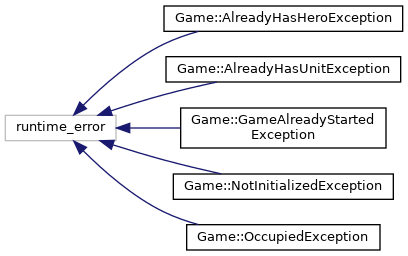
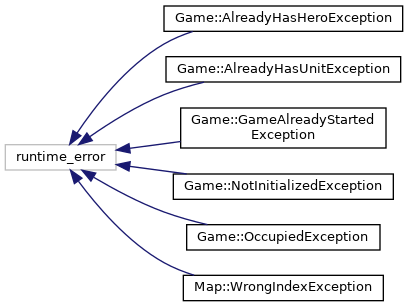
Update gh-pages to output generated at 4e7038c

Changed region(s): [[0.0, 0.0, 1.0, 1.0]]

diff --git a/hierarchy.html b/hierarchy.html
@@ -74,16 +74,16 @@ This inheritance list is sorted roughly, but not completely, alphabetically:</di
 <tr id="row_0_" class="even"><td class="entry"><span style="width:16px;display:inline-block;">&#160;</span><span class="icona"><span class="icon">C</span></span><a class="el" href="struct_damage.html" target="_self">Damage</a></td><td class="desc"><a class="el" href="struct_damage.html" title="Damage is a struct which contains int physical and int magical dmg.">Damage</a> is a struct which contains int physical and int magical dmg </td></tr>
 <tr id="row_1_"><td class="entry"><span style="width:0px;display:inline-block;">&#160;</span><span id="arr_1_" class="arrow" onclick="toggleFolder('1_')">&#9660;</span><span class="icona"><span class="icon">C</span></span><b>exception</b></td><td class="desc"></td></tr>
 <tr id="row_1_0_" class="even"><td class="entry"><span style="width:32px;display:inline-block;">&#160;</span><span class="icona"><span class="icon">C</span></span><a class="el" href="class_j_s_o_n_1_1_parse_exception.html" target="_self">JSON::ParseException</a></td><td class="desc">This is the exception thrown when the <a class="el" href="class_j_s_o_n.html" title="header for JSON class">JSON</a> parsing fails </td></tr>
-<tr id="row_1_1_"><td class="entry"><span style="width:32px;display:inline-block;">&#160;</span><span class="icona"><span class="icon">C</span></span><a class="el" href="class_map_1_1_wrong_index_exception.html" target="_self">Map::WrongIndexException</a></td><td class="desc">The exception thrown when the map is indexed outside of its bounds </td></tr>
-<tr id="row_2_" class="even"><td class="entry"><span style="width:16px;display:inline-block;">&#160;</span><span class="icona"><span class="icon">C</span></span><a class="el" href="class_game.html" target="_self">Game</a></td><td class="desc">Header for <a class="el" href="class_game.html" title="header for Game class">Game</a> class </td></tr>
-<tr id="row_3_"><td class="entry"><span style="width:16px;display:inline-block;">&#160;</span><span class="icona"><span class="icon">C</span></span><a class="el" href="class_j_s_o_n.html" target="_self">JSON</a></td><td class="desc">Header for <a class="el" href="class_j_s_o_n.html" title="header for JSON class">JSON</a> class </td></tr>
-<tr id="row_4_" class="even"><td class="entry"><span style="width:16px;display:inline-block;">&#160;</span><span class="icona"><span class="icon">C</span></span><a class="el" href="class_map.html" target="_self">Map</a></td><td class="desc">Header for <a class="el" href="class_map.html" title="header for Map class">Map</a> class </td></tr>
-<tr id="row_5_"><td class="entry"><span style="width:0px;display:inline-block;">&#160;</span><span id="arr_5_" class="arrow" onclick="toggleFolder('5_')">&#9660;</span><span class="icona"><span class="icon">C</span></span><b>runtime_error</b></td><td class="desc"></td></tr>
-<tr id="row_5_0_" class="even"><td class="entry"><span style="width:32px;display:inline-block;">&#160;</span><span class="icona"><span class="icon">C</span></span><a class="el" href="class_game_1_1_already_has_hero_exception.html" target="_self">Game::AlreadyHasHeroException</a></td><td class="desc"></td></tr>
-<tr id="row_5_1_"><td class="entry"><span style="width:32px;display:inline-block;">&#160;</span><span class="icona"><span class="icon">C</span></span><a class="el" href="class_game_1_1_already_has_unit_exception.html" target="_self">Game::AlreadyHasUnitException</a></td><td class="desc"></td></tr>
-<tr id="row_5_2_" class="even"><td class="entry"><span style="width:32px;display:inline-block;">&#160;</span><span class="icona"><span class="icon">C</span></span><a class="el" href="class_game_1_1_game_already_started_exception.html" target="_self">Game::GameAlreadyStartedException</a></td><td class="desc"></td></tr>
-<tr id="row_5_3_"><td class="entry"><span style="width:32px;display:inline-block;">&#160;</span><span class="icona"><span class="icon">C</span></span><a class="el" href="class_game_1_1_not_initialized_exception.html" target="_self">Game::NotInitializedException</a></td><td class="desc"></td></tr>
-<tr id="row_5_4_" class="even"><td class="entry"><span style="width:32px;display:inline-block;">&#160;</span><span class="icona"><span class="icon">C</span></span><a class="el" href="class_game_1_1_occupied_exception.html" target="_self">Game::OccupiedException</a></td><td class="desc"></td></tr>
+<tr id="row_2_"><td class="entry"><span style="width:16px;display:inline-block;">&#160;</span><span class="icona"><span class="icon">C</span></span><a class="el" href="class_game.html" target="_self">Game</a></td><td class="desc">Header for <a class="el" href="class_game.html" title="header for Game class">Game</a> class </td></tr>
+<tr id="row_3_" class="even"><td class="entry"><span style="width:16px;display:inline-block;">&#160;</span><span class="icona"><span class="icon">C</span></span><a class="el" href="class_j_s_o_n.html" target="_self">JSON</a></td><td class="desc">Header for <a class="el" href="class_j_s_o_n.html" title="header for JSON class">JSON</a> class </td></tr>
+<tr id="row_4_"><td class="entry"><span style="width:16px;display:inline-block;">&#160;</span><span class="icona"><span class="icon">C</span></span><a class="el" href="class_map.html" target="_self">Map</a></td><td class="desc">Header for <a class="el" href="class_map.html" title="header for Map class">Map</a> class </td></tr>
+<tr id="row_5_" class="even"><td class="entry"><span style="width:0px;display:inline-block;">&#160;</span><span id="arr_5_" class="arrow" onclick="toggleFolder('5_')">&#9660;</span><span class="icona"><span class="icon">C</span></span><b>runtime_error</b></td><td class="desc"></td></tr>
+<tr id="row_5_0_"><td class="entry"><span style="width:32px;display:inline-block;">&#160;</span><span class="icona"><span class="icon">C</span></span><a class="el" href="class_game_1_1_already_has_hero_exception.html" target="_self">Game::AlreadyHasHeroException</a></td><td class="desc"></td></tr>
+<tr id="row_5_1_" class="even"><td class="entry"><span style="width:32px;display:inline-block;">&#160;</span><span class="icona"><span class="icon">C</span></span><a class="el" href="class_game_1_1_already_has_unit_exception.html" target="_self">Game::AlreadyHasUnitException</a></td><td class="desc"></td></tr>
+<tr id="row_5_2_"><td class="entry"><span style="width:32px;display:inline-block;">&#160;</span><span class="icona"><span class="icon">C</span></span><a class="el" href="class_game_1_1_game_already_started_exception.html" target="_self">Game::GameAlreadyStartedException</a></td><td class="desc"></td></tr>
+<tr id="row_5_3_" class="even"><td class="entry"><span style="width:32px;display:inline-block;">&#160;</span><span class="icona"><span class="icon">C</span></span><a class="el" href="class_game_1_1_not_initialized_exception.html" target="_self">Game::NotInitializedException</a></td><td class="desc"></td></tr>
+<tr id="row_5_4_"><td class="entry"><span style="width:32px;display:inline-block;">&#160;</span><span class="icona"><span class="icon">C</span></span><a class="el" href="class_game_1_1_occupied_exception.html" target="_self">Game::OccupiedException</a></td><td class="desc"></td></tr>
+<tr id="row_5_5_" class="even"><td class="entry"><span style="width:32px;display:inline-block;">&#160;</span><span class="icona"><span class="icon">C</span></span><a class="el" href="class_map_1_1_wrong_index_exception.html" target="_self">Map::WrongIndexException</a></td><td class="desc">The exception thrown when the map is indexed outside of its bounds </td></tr>
 <tr id="row_6_"><td class="entry"><span style="width:0px;display:inline-block;">&#160;</span><span id="arr_6_" class="arrow" onclick="toggleFolder('6_')">&#9660;</span><span class="icona"><span class="icon">C</span></span><a class="el" href="class_unit.html" target="_self">Unit</a></td><td class="desc">Header for <a class="el" href="class_unit.html" title="header for Unit class">Unit</a> class </td></tr>
 <tr id="row_6_0_" class="even"><td class="entry"><span style="width:32px;display:inline-block;">&#160;</span><span class="icona"><span class="icon">C</span></span><a class="el" href="class_hero.html" target="_self">Hero</a></td><td class="desc">Header for <a class="el" href="class_hero.html" title="header for Hero class">Hero</a> class </td></tr>
 <tr id="row_6_1_"><td class="entry"><span style="width:32px;display:inline-block;">&#160;</span><span class="icona"><span class="icon">C</span></span><a class="el" href="class_monster.html" target="_self">Monster</a></td><td class="desc">Header for <a class="el" href="class_monster.html" title="header for Monster class">Monster</a> class </td></tr>

diff --git a/_game_8h_source.html b/_game_8h_source.html
@@ -81,7 +81,7 @@ $(function() {
 <div class="line"><a name="l00024"></a><span class="lineno"><a class="line" href="class_game.html">   24</a></span>&#160;<span class="keyword">class </span><a class="code" href="class_game.html">Game</a></div>
 <div class="line"><a name="l00025"></a><span class="lineno">   25</span>&#160;{</div>
 <div class="line"><a name="l00026"></a><span class="lineno">   26</span>&#160;<span class="keyword">private</span>:</div>
-<div class="line"><a name="l00027"></a><span class="lineno">   27</span>&#160;    <a class="code" href="class_hero.html">Hero</a> hero; <span class="comment">//&lt; The hero who plays.</span></div>
+<div class="line"><a name="l00027"></a><span class="lineno">   27</span>&#160;    <a class="code" href="class_hero.html">Hero</a>* hero; <span class="comment">//&lt; The hero who plays.</span></div>
 <div class="line"><a name="l00028"></a><span class="lineno">   28</span>&#160;    <span class="keywordtype">bool</span> isHeroSet; <span class="comment">//&lt; Gives true if the hero is already set on the map.</span></div>
 <div class="line"><a name="l00029"></a><span class="lineno">   29</span>&#160;    <span class="keywordtype">bool</span> isMonsterSet; <span class="comment">//&lt; Gives true if the monster is already set on the map.</span></div>
 <div class="line"><a name="l00030"></a><span class="lineno">   30</span>&#160;    <span class="keywordtype">bool</span> isMapSet; <span class="comment">//&lt; Gives true if the map is already set.</span></div>
@@ -110,9 +110,9 @@ $(function() {
 <div class="line"><a name="l00098"></a><span class="lineno">   98</span>&#160; </div>
 <div class="line"><a name="l00100"></a><span class="lineno">  100</span>&#160;    <a class="code" href="class_game.html#ad59df6562a58a614fda24622d3715b65">Game</a>();</div>
 <div class="line"><a name="l00101"></a><span class="lineno">  101</span>&#160; </div>
-<div class="line"><a name="l00103"></a><span class="lineno"><a class="line" href="class_game.html#a3876b1ca516ea549b57de515b25c6acc">  103</a></span>&#160;    <a class="code" href="class_game.html#a3876b1ca516ea549b57de515b25c6acc">Game</a>(std::string&amp; mapfilename) : hero(), isHeroSet(false), isMonsterSet(false), isMapSet(false), isStarted(false) {};</div>
+<div class="line"><a name="l00103"></a><span class="lineno"><a class="line" href="class_game.html#a3876b1ca516ea549b57de515b25c6acc">  103</a></span>&#160;    <a class="code" href="class_game.html#a3876b1ca516ea549b57de515b25c6acc">Game</a>(std::string&amp; mapfilename) : isHeroSet(false), isMonsterSet(false), isMapSet(false), isStarted(false), hero(nullptr) {};</div>
 <div class="line"><a name="l00104"></a><span class="lineno">  104</span>&#160; </div>
-<div class="line"><a name="l00106"></a><span class="lineno"><a class="line" href="class_game.html#ae3d112ca6e0e55150d2fdbc704474530">  106</a></span>&#160;    <a class="code" href="class_game.html#ae3d112ca6e0e55150d2fdbc704474530">~Game</a>() { }</div>
+<div class="line"><a name="l00106"></a><span class="lineno"><a class="line" href="class_game.html#ae3d112ca6e0e55150d2fdbc704474530">  106</a></span>&#160;    <a class="code" href="class_game.html#ae3d112ca6e0e55150d2fdbc704474530">~Game</a>() { <span class="keyword">delete</span> hero; }</div>
 <div class="line"><a name="l00107"></a><span class="lineno">  107</span>&#160; </div>
 <div class="line"><a name="l00108"></a><span class="lineno"><a class="line" href="class_game_1_1_occupied_exception.html">  108</a></span>&#160;    <span class="keyword">class </span><a class="code" href="class_game_1_1_occupied_exception.html">OccupiedException</a> : <span class="keyword">public</span> std::runtime_error {</div>
 <div class="line"><a name="l00109"></a><span class="lineno">  109</span>&#160;        <span class="keyword">public</span>:</div>

diff --git a/inherits.html b/inherits.html
@@ -82,12 +82,13 @@ $(function() {
 </td></tr>
 <tr><td><img src="inherit_graph_2.png" border="0" usemap="#_game_1_1_already_has_hero_exception" alt=""/>
 <map name="_game_1_1_already_has_hero_exception" id="_game_1_1_already_has_hero_exception">
-<area shape="rect" title=" " alt="" coords="5,115,116,141"/>
+<area shape="rect" title=" " alt="" coords="5,144,116,171"/>
 <area shape="rect" href="class_game_1_1_already_has_hero_exception.html" title=" " alt="" coords="164,5,403,32"/>
 <area shape="rect" href="class_game_1_1_already_has_unit_exception.html" title=" " alt="" coords="166,56,401,83"/>
 <area shape="rect" href="class_game_1_1_game_already_started_exception.html" title=" " alt="" coords="181,107,386,149"/>
 <area shape="rect" href="class_game_1_1_not_initialized_exception.html" title=" " alt="" coords="173,173,393,200"/>
 <area shape="rect" href="class_game_1_1_occupied_exception.html" title=" " alt="" coords="187,224,380,251"/>
+<area shape="rect" href="class_map_1_1_wrong_index_exception.html" title="The exception thrown when the map is indexed outside of its bounds." alt="" coords="183,275,383,301"/>
 </map>
 </td></tr>
 <tr><td><img src="inherit_graph_3.png" border="0" usemap="#_j_s_o_n" alt=""/>
@@ -97,9 +98,8 @@ $(function() {
 </td></tr>
 <tr><td><img src="inherit_graph_4.png" border="0" usemap="#_j_s_o_n_1_1_parse_exception" alt=""/>
 <map name="_j_s_o_n_1_1_parse_exception" id="_j_s_o_n_1_1_parse_exception">
-<area shape="rect" title=" " alt="" coords="5,31,92,57"/>
-<area shape="rect" href="class_j_s_o_n_1_1_parse_exception.html" title="This is the exception thrown when the JSON parsing fails." alt="" coords="159,5,321,32"/>
-<area shape="rect" href="class_map_1_1_wrong_index_exception.html" title="The exception thrown when the map is indexed outside of its bounds." alt="" coords="140,56,340,83"/>
+<area shape="rect" title=" " alt="" coords="5,5,92,32"/>
+<area shape="rect" href="class_j_s_o_n_1_1_parse_exception.html" title="This is the exception thrown when the JSON parsing fails." alt="" coords="140,5,301,32"/>
 </map>
 </td></tr>
 <tr><td><img src="inherit_graph_5.png" border="0" usemap="#_map" alt=""/>

diff --git a/class_map_1_1_wrong_index_exception.html b/class_map_1_1_wrong_index_exception.html
@@ -82,7 +82,7 @@ Inheritance diagram for Map::WrongIndexException:</div>
 <div class="center"><img src="class_map_1_1_wrong_index_exception__inherit__graph.png" border="0" usemap="#_map_1_1_wrong_index_exception_inherit__map" alt="Inheritance graph"/></div>
 <map name="_map_1_1_wrong_index_exception_inherit__map" id="_map_1_1_wrong_index_exception_inherit__map">
 <area shape="rect" title="The exception thrown when the map is indexed outside of its bounds." alt="" coords="5,80,205,107"/>
-<area shape="rect" title=" " alt="" coords="48,5,163,32"/>
+<area shape="rect" title=" " alt="" coords="50,5,161,32"/>
 </map>
 <center><span class="legend">[<a href="graph_legend.html">legend</a>]</span></center></div>
 <div class="dynheader">
@@ -91,7 +91,7 @@ Collaboration diagram for Map::WrongIndexException:</div>
 <div class="center"><img src="class_map_1_1_wrong_index_exception__coll__graph.png" border="0" usemap="#_map_1_1_wrong_index_exception_coll__map" alt="Collaboration graph"/></div>
 <map name="_map_1_1_wrong_index_exception_coll__map" id="_map_1_1_wrong_index_exception_coll__map">
 <area shape="rect" title="The exception thrown when the map is indexed outside of its bounds." alt="" coords="5,80,205,107"/>
-<area shape="rect" title=" " alt="" coords="48,5,163,32"/>
+<area shape="rect" title=" " alt="" coords="50,5,161,32"/>
 </map>
 <center><span class="legend">[<a href="graph_legend.html">legend</a>]</span></center></div>
 <a name="details" id="details"></a><h2 class="groupheader">Detailed Description</h2>

diff --git a/class_j_s_o_n_1_1_parse_exception.html b/class_j_s_o_n_1_1_parse_exception.html
@@ -82,7 +82,7 @@ Inheritance diagram for JSON::ParseException:</div>
 <div class="center"><img src="class_j_s_o_n_1_1_parse_exception__inherit__graph.png" border="0" usemap="#_j_s_o_n_1_1_parse_exception_inherit__map" alt="Inheritance graph"/></div>
 <map name="_j_s_o_n_1_1_parse_exception_inherit__map" id="_j_s_o_n_1_1_parse_exception_inherit__map">
 <area shape="rect" title="This is the exception thrown when the JSON parsing fails." alt="" coords="5,80,167,107"/>
-<area shape="rect" title=" " alt="" coords="43,5,129,32"/>
+<area shape="rect" title=" " alt="" coords="29,5,143,32"/>
 </map>
 <center><span class="legend">[<a href="graph_legend.html">legend</a>]</span></center></div>
 <div class="dynheader">
@@ -91,7 +91,7 @@ Collaboration diagram for JSON::ParseException:</div>
 <div class="center"><img src="class_j_s_o_n_1_1_parse_exception__coll__graph.png" border="0" usemap="#_j_s_o_n_1_1_parse_exception_coll__map" alt="Collaboration graph"/></div>
 <map name="_j_s_o_n_1_1_parse_exception_coll__map" id="_j_s_o_n_1_1_parse_exception_coll__map">
 <area shape="rect" title="This is the exception thrown when the JSON parsing fails." alt="" coords="5,80,167,107"/>
-<area shape="rect" title=" " alt="" coords="43,5,129,32"/>
+<area shape="rect" title=" " alt="" coords="29,5,143,32"/>
 </map>
 <center><span class="legend">[<a href="graph_legend.html">legend</a>]</span></center></div>
 <a name="details" id="details"></a><h2 class="groupheader">Detailed Description</h2>

diff --git a/_map_8h_source.html b/_map_8h_source.html
@@ -90,7 +90,7 @@ $(function() {
 <div class="line"><a name="l00036"></a><span class="lineno">   36</span>&#160; </div>
 <div class="line"><a name="l00037"></a><span class="lineno">   37</span>&#160;<span class="keyword">public</span>:</div>
 <div class="line"><a name="l00038"></a><span class="lineno">   38</span>&#160; </div>
-<div class="line"><a name="l00040"></a><span class="lineno"><a class="line" href="class_map_1_1_wrong_index_exception.html">   40</a></span>&#160;    <span class="keyword">class </span><a class="code" href="class_map_1_1_wrong_index_exception.html">WrongIndexException</a> :<span class="keyword">public</span> std::exception {  };</div>
+<div class="line"><a name="l00040"></a><span class="lineno"><a class="line" href="class_map_1_1_wrong_index_exception.html">   40</a></span>&#160;    <span class="keyword">class </span><a class="code" href="class_map_1_1_wrong_index_exception.html">WrongIndexException</a> :<span class="keyword">public</span> std::runtime_error {  };</div>
 <div class="line"><a name="l00041"></a><span class="lineno">   41</span>&#160; </div>
 <div class="line"><a name="l00051"></a><span class="lineno">   51</span>&#160;    <a class="code" href="class_map.html">Map</a>(std::string filename);</div>
 <div class="line"><a name="l00052"></a><span class="lineno">   52</span>&#160; </div>
